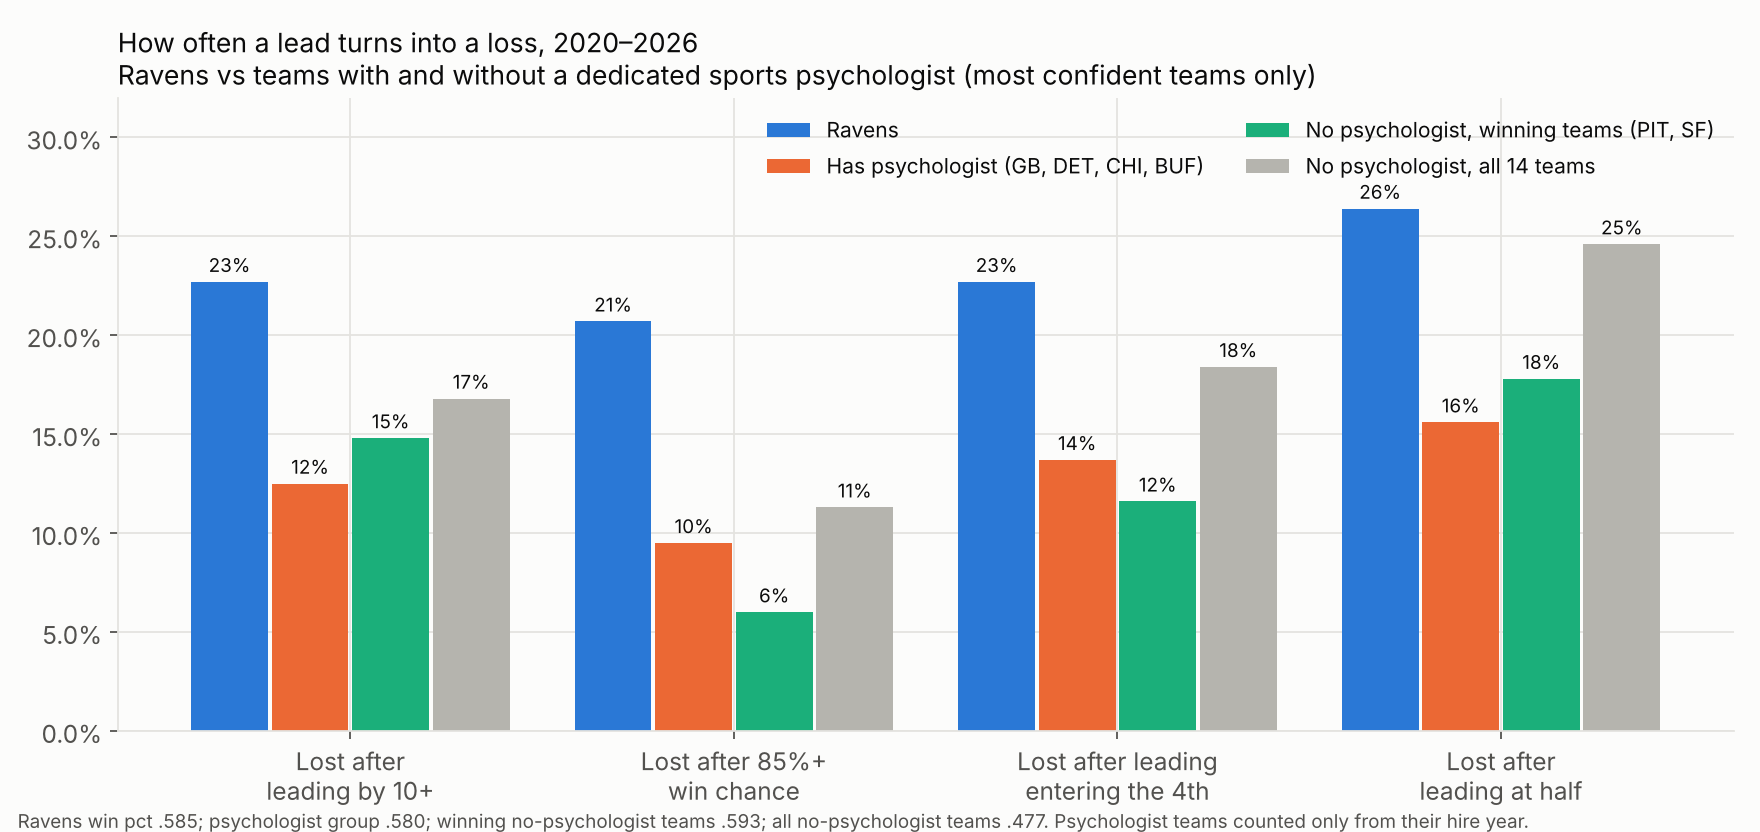
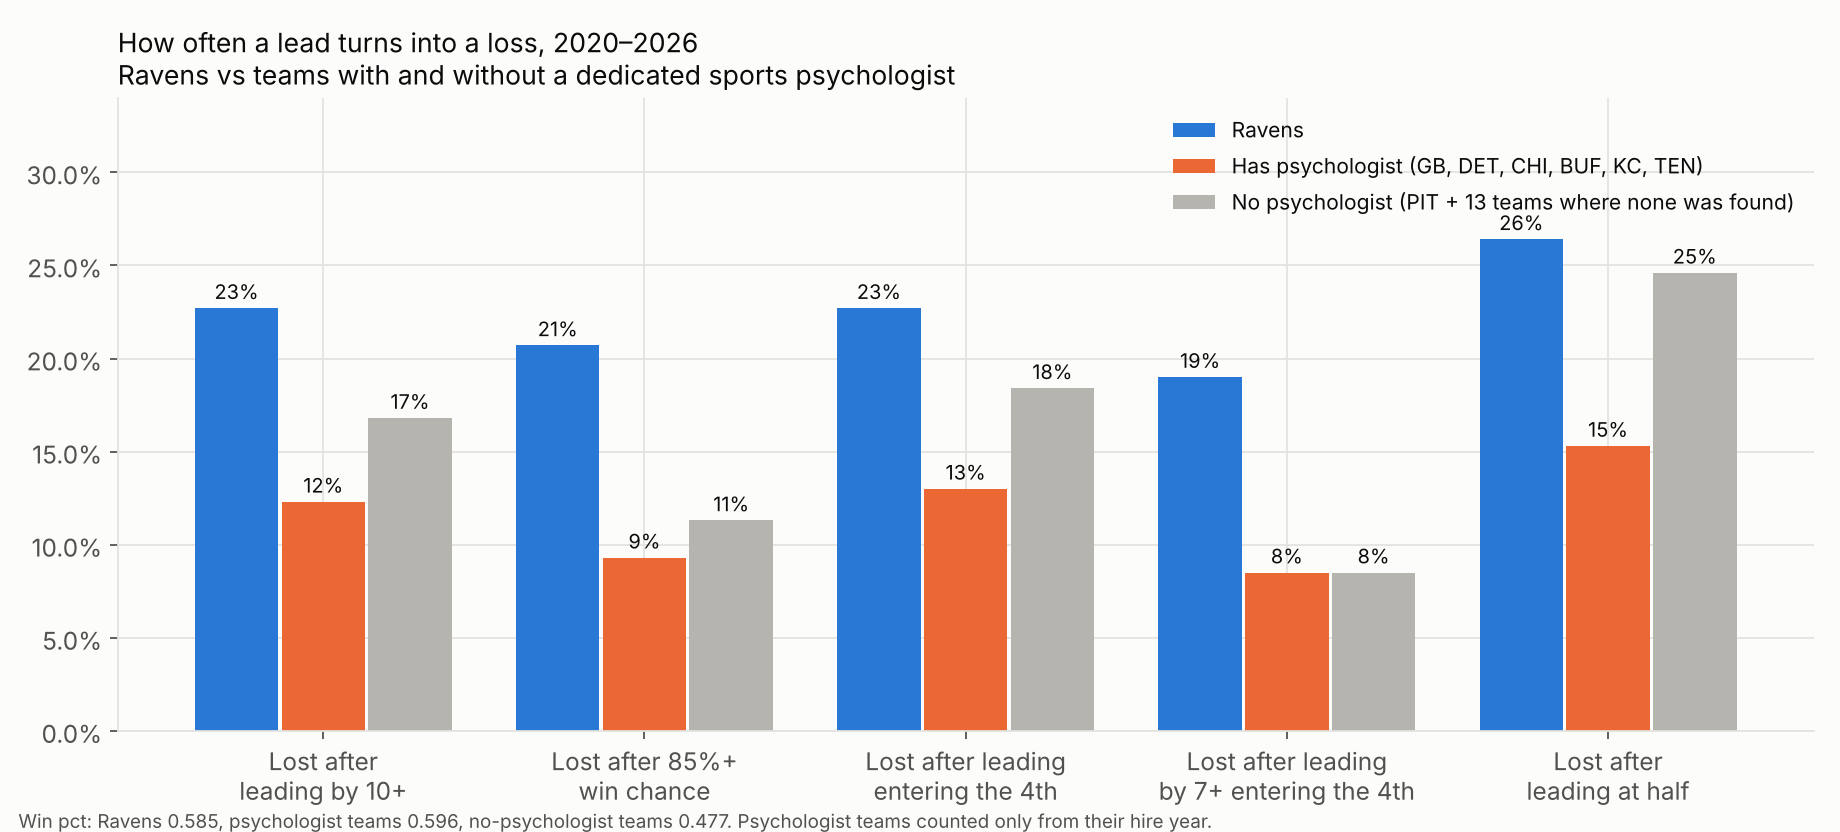
Ravens study: psychologist comparison with Chiefs and Titans added, two groups only
Claude-Session: https://claude.ai/code/session_01VaajPvovMVPsxphuCeQMVX

diff --git a/analysis/ravens-second-half/psych_compare.py b/analysis/ravens-second-half/psych_compare.py
@@ -5,13 +5,15 @@ Usage: python3 psych_compare.py DATA_DIR  (pbp_slim.parquet, game_flags.csv, tea
 
 Groups (team-seasons, 2020-2026), from sports_psychologists.md -- only the most confident entries:
   HAS: Packers 2020-26 (Chris Carr, full-time Apr 2020), Lions 2021-26 (Michelle Garvin, Jun 2021),
-       Bears 2022-26 (Mike Wiley Jr., Jul 2022), Bills 2023-26 (Desaree Festa, 2023 article).
+       Bears 2022-26 (Mike Wiley Jr., Jul 2022), Bills 2023-26 (Desaree Festa, 2023 article),
+       Chiefs 2022-26 (Shaun Tyrance, VP role covering performance psychology from May 2022; Tyler Bradstreet,
+       VP of Performance Psychology, likely 2026), Titans 2026 (Charron Sumler, hired before 2026; single source).
        Their seasons before the hire are dropped (not counted in either group).
   NO (confirmed): Steelers (2022 Post-Gazette column; assumed for all seasons).
   NO (none found): Bengals, Browns, Texans, Colts, Raiders, Chargers, Cowboys, Patriots, Jets, Saints, 49ers, Broncos,
        Dolphins -- searched, nobody named. Not proof of absence.
   BAL: Ravens (confirmed none, 2026 Banner).
-Left out as uncertain: Chiefs, Titans, Giants, Commanders, Rams, Bucs, Panthers, Falcons, Jaguars, Vikings, Cardinals,
+Left out as uncertain: Giants, Commanders, Rams, Bucs, Panthers, Falcons, Jaguars, Vikings, Cardinals,
 Seahawks, Eagles.
 """
 import sys, os
@@ -21,7 +23,7 @@ import pandas as pd
 d = sys.argv[1]
 out = os.path.dirname(os.path.abspath(__file__))
 pd.set_option('display.width', 250); pd.set_option('display.max_columns', 30)
-HAS = {'GB': 2020, 'DET': 2021, 'CHI': 2022, 'BUF': 2023}
+HAS = {'GB': 2020, 'DET': 2021, 'CHI': 2022, 'BUF': 2023, 'KC': 2022, 'TEN': 2026}
 NO_CONF = ['PIT']
 NO_FOUND = ['CIN', 'CLE', 'HOU', 'IND', 'LV', 'LAC', 'DAL', 'NE', 'NYJ', 'NO', 'SF', 'DEN', 'MIA']
 
@@ -72,8 +74,7 @@ def summ(x):
         'led_half_lost_game_rate': x.led_half_lost.sum() / x.led_half.sum(),
         'led_entering_q4': x.led_q4.sum(), 'blew_q4_lead_rate': x.blew_q4.sum() / x.led_q4.sum(),
         'led_by_7_entering_q4': x.led_q4_7.sum(), 'blew_q4_7plus_rate': x.blew_q4_7.sum() / x.led_q4_7.sum()})
-order = ['Ravens', 'Has psychologist', 'No psychologist: all (Steelers + none found)', 'No psychologist: Steelers (confirmed)',
-         'No psychologist: none found']
+order = ['Ravens', 'Has psychologist', 'No psychologist: all (Steelers + none found)']
 res = g.groupby('grp').apply(summ).T[order]
 lg = f[f.grp != 'Ravens']
 res['NFL (all other teams)'] = summ(f[f.team != 'BAL'])
@@ -93,12 +94,3 @@ for c in ['gap_2h_minus_1h_pg', 'q4_diff_pg', 'def_extra_2h_pts_pg', 'blew_10_ra
     asc = c in ['gap_2h_minus_1h_pg', 'q4_diff_pg']
     print(f'BAL rank of {len(allt)} on {c} (1 = worst):', int(allt[c].rank(ascending=asc, method="min")['BAL']))
 
-# Team quality check: better teams blow fewer leads, and the psychologist group wins more. Compare like with like:
-# "no psychologist" teams with a .550+ win pct over the span vs the psychologist group vs the Ravens.
-wp = f[f.grp.notna()].groupby('team').won.mean()
-good_no = [t for t in NO_CONF + NO_FOUND if wp[t] >= .55]
-print('\nNo-psychologist teams with .550+ win pct:', {t: round(wp[t], 3) for t in good_no})
-m = pd.DataFrame({'Ravens': summ(f[f.team == 'BAL']), 'Has psychologist': summ(f[f.grp == 'Has psychologist']),
-                  'No psychologist, winning teams': summ(f[f.team.isin(good_no)])})
-m.round(3).to_csv(f'{out}/psych_compare_matched.csv')
-print(m.round(3).to_string())

diff --git a/analysis/ravens-second-half/charts.py b/analysis/ravens-second-half/charts.py
@@ -133,25 +133,25 @@ print('deep charts written')
 
 # 7. Ravens vs teams with / without a dedicated sports psychologist
 pc = pd.read_csv(f'{out}/psych_compare.csv', index_col=0)
-pm = pd.read_csv(f'{out}/psych_compare_matched.csv', index_col=0)
-cols = {'Ravens': (pc['Ravens'], BLUE), 'Has psychologist\n(GB, DET, CHI, BUF)': (pc['Has psychologist'], ORANGE),
-        'No psychologist,\nwinning teams (PIT, SF)': (pm['No psychologist, winning teams'], '#1baf7a'),
-        'No psychologist,\nall 14 teams': (pc['No psychologist: all (Steelers + none found)'], GRAY)}
+cols = {'Ravens': (pc['Ravens'], BLUE), 'Has psychologist (GB, DET, CHI, BUF, KC, TEN)': (pc['Has psychologist'], ORANGE),
+        'No psychologist (PIT + 13 teams where none was found)': (pc['No psychologist: all (Steelers + none found)'], GRAY)}
 metrics = [('blew_10_rate', 'Lost after\nleading by 10+'), ('lost_after_85pct_rate', 'Lost after 85%+\nwin chance'),
-           ('blew_q4_lead_rate', 'Lost after leading\nentering the 4th'), ('led_half_lost_game_rate', 'Lost after\nleading at half')]
-fig, ax = plt.subplots(figsize=(11, 5.2))
-w = .2; x = np.arange(len(metrics))
+           ('blew_q4_lead_rate', 'Lost after leading\nentering the 4th'), ('blew_q4_7plus_rate', 'Lost after leading\nby 7+ entering the 4th'),
+           ('led_half_lost_game_rate', 'Lost after\nleading at half')]
+fig, ax = plt.subplots(figsize=(11.5, 5.2))
+w = .26; x = np.arange(len(metrics))
 for j, (lab, (ser, col)) in enumerate(cols.items()):
     vals = [ser[m] for m, _ in metrics]
-    xs = x + (j - 1.5) * (w + .01)
-    ax.bar(xs, vals, w, color=col, label=lab.replace('\n', ' '))
+    xs = x + (j - 1) * (w + .01)
+    ax.bar(xs, vals, w, color=col, label=lab)
     for xx, v in zip(xs, vals):
-        ax.text(xx, v + .005, f'{v:.0%}', ha='center', fontsize=8.5)
+        ax.text(xx, v + .005, f'{v:.0%}', ha='center', fontsize=9)
 ax.set_xticks(x, [l for _, l in metrics]); ax.yaxis.set_major_formatter(matplotlib.ticker.PercentFormatter(1))
-ax.set_ylim(0, .32); ax.legend(frameon=False, ncol=2, loc='upper right', fontsize=9.5)
-ax.set_title('How often a lead turns into a loss, 2020–2026\nRavens vs teams with and without a dedicated sports psychologist (most confident teams only)',
+ax.set_ylim(0, .34); ax.legend(frameon=False, loc='upper right', fontsize=9.5)
+ax.set_title('How often a lead turns into a loss, 2020–2026\nRavens vs teams with and without a dedicated sports psychologist',
              loc='left', fontsize=12)
-fig.text(.01, .005, 'Ravens win pct .585; psychologist group .580; winning no-psychologist teams .593; all no-psychologist teams .477. '
-         'Psychologist teams counted only from their hire year.', fontsize=8.5, color=INK2)
+fig.text(.01, .005, f"Win pct: Ravens {pc.loc['win_pct', 'Ravens']:.3f}, psychologist teams {pc.loc['win_pct', 'Has psychologist']:.3f}, "
+         f"no-psychologist teams {pc.loc['win_pct', 'No psychologist: all (Steelers + none found)']:.3f}. Psychologist teams counted only from their hire year.",
+         fontsize=8.5, color=INK2)
 save(fig, 'chart_psych_compare.png')
 print('psych chart written')

diff --git a/analysis/ravens-second-half/README.md b/analysis/ravens-second-half/README.md
@@ -387,41 +387,41 @@ PFF's position (ED = edge), so edge rushers listed as "LB" on draft day count as
   agency, so even good edge picks often weren't kept.
 
 ## 12. Teams with vs without a dedicated sports psychologist
-Files: `psych_compare.py` → `psych_compare.csv`, `psych_compare_teams.csv`, `psych_compare_matched.csv`;
-team list in `sports_psychologists.md`. 2020–2026, regular season + playoffs.
+Files: `psych_compare.py` → `psych_compare.csv`, `psych_compare_teams.csv`; team list in `sports_psychologists.md`.
+2020–2026, regular season + playoffs.
 
-Groups (most confident only):
-- **Has a psychologist:** Packers 2020–26 (Chris Carr), Lions 2021–26 (Michelle Garvin), Bears 2022–26 (Mike Wiley Jr.),
-  Bills 2023–26 (Desaree Festa). Seasons before each hire are left out.
-- **No psychologist:** Steelers (only confirmed "no") plus 13 teams where a search found nobody (Bengals, Browns,
-  Texans, Colts, Raiders, Chargers, Cowboys, Patriots, Jets, Saints, 49ers, Broncos, Dolphins). "None found" is not proof.
+Groups:
+- **Has a psychologist (6 teams):** Packers 2020–26 (Chris Carr), Lions 2021–26 (Michelle Garvin), Bears 2022–26
+  (Mike Wiley Jr.), Bills 2023–26 (Desaree Festa), Chiefs 2022–26 (Shaun Tyrance's VP role covering performance
+  psychology from 2022; Tyler Bradstreet, VP of Performance Psychology, likely 2026), Titans 2026 only (Charron
+  Sumler; single source, 9 games). Seasons before each hire are left out.
+- **No psychologist (14 teams):** Steelers (only confirmed "no") plus 13 teams where a search found nobody (Bengals,
+  Browns, Texans, Colts, Raiders, Chargers, Cowboys, Patriots, Jets, Saints, 49ers, Broncos, Dolphins). "None found" is not proof.
 - **Ravens:** confirmed none.
 
-| Per game / rate | Ravens | Has psychologist | No psych, winning teams (PIT, SF) | No psych, all 14 |
-|---|---|---|---|---|
-| Win % | .585 | .580 | .593 | .477 |
-| 1st-half point diff | +3.9 | +1.5 | +0.7 | −0.4 |
-| 2nd-half point diff | +0.7 | +1.5 | +1.2 | −0.4 |
-| 2nd half minus 1st half | **−3.2** | 0.0 | +0.5 | 0.0 |
-| 4th-quarter point diff | **−0.7** | +0.5 | +0.7 | 0.0 |
-| Extra points allowed in 2nd half | **+2.4** | −0.1 | −0.1 | −0.4 |
-| Lost after leading by 10+ | **23%** | 12% | 15% | 17% |
-| Lost after 85%+ win chance | **21%** | 10% | 6% | 11% |
-| Lost after leading entering the 4th | **23%** | 14% | 12% | 18% |
-| Lost after leading by 7+ entering the 4th | **19%** | 9% | 5% | 9% |
-| Lost after leading at half | **26%** | 16% | 18% | 25% |
+| Per game / rate | Ravens | Has psychologist | No psychologist |
+|---|---|---|---|
+| Win % | .585 | .596 | .477 |
+| 1st-half point diff | +3.9 | +1.6 | −0.4 |
+| 2nd-half point diff | +0.7 | +1.6 | −0.4 |
+| 2nd half minus 1st half | **−3.2** | 0.0 | 0.0 |
+| 4th-quarter point diff | **−0.7** | +0.6 | 0.0 |
+| Extra points allowed in 2nd half | **+2.4** | −0.4 | −0.4 |
+| Lost after leading by 10+ | **23%** | 12% | 17% |
+| Lost after 85%+ win chance | **21%** | 9% | 11% |
+| Lost after leading entering the 4th | **23%** | 13% | 18% |
+| Lost after leading by 7+ entering the 4th | **19%** | 9% | 9% |
+| Lost after leading at half | **26%** | 15% | 25% |
 
-- **The Ravens are worse than both groups on every blown-lead measure**, even though they win as often as the
-  psychologist teams. Among these 19 teams they are last in 2nd-half fade and extra 2nd-half points allowed, and 2nd
-  worst in losses after an 85% win chance.
-- **The psychologist teams look better than the no-psychologist group overall, but that's mostly team quality.**
-  They win 58% vs 48%, and better teams blow fewer leads. Against no-psychologist teams that win just as often
-  (Steelers, 49ers), the psychologist teams are about the same: better on some measures, worse on others.
-- **Inside the psychologist group it varies a lot.** The Bills and Lions rarely blow leads (about 5–10%). The Bears
-  blow them about as often as the Ravens (22% after leading by 10+, 19% after an 85% win chance).
-- **Bottom line:** with this little data (4 teams vs 2 comparable teams), there's no clear sign that having a
-  dedicated psychologist prevents blown leads. What the data does show is that the Ravens are an outlier against
-  both groups. Hiring one could still be worth trying, but these numbers can't promise it would fix the problem.
+- **The Ravens are worse than both groups on every measure.** Among these 21 teams they rank last in 2nd-half
+  fade and extra 2nd-half points allowed, 3rd worst in losses after an 85% win chance, and 5th worst after leading by 10+.
+- **The psychologist teams blow fewer leads than the no-psychologist teams on most measures.** But they also win far
+  more (60% vs 48%), and better teams naturally blow fewer leads, so this can't be credited to the psychologist.
+  On the cleanest late-game measure, losing a 7+ point lead in the 4th quarter, the two groups are identical (9%).
+- **Inside the psychologist group it varies a lot.** Bills, Chiefs and Lions rarely blow leads (about 5–10%); the
+  Bears blow them about as often as the Ravens (22% after leading by 10+). The Titans have only 9 games.
+- **Bottom line:** the data shows no clear effect of having a dedicated psychologist, but it confirms the Ravens are
+  an outlier against both groups. A hire could still be worth trying; these numbers just can't promise it would help.
 
 ![psych](chart_psych_compare.png)
 
@@ -462,7 +462,7 @@ Groups (most confident only):
 - `coaching_tree.py` → `coaching_tree.csv`, `team_season_defense.csv`
 - `game_situation.py` → `situation_offense.csv`, `situation_handoff.csv`
 - `penalties.py` → `penalties_q4.csv`
-- `psych_compare.py` → `psych_compare.csv`, `psych_compare_teams.csv`, `psych_compare_matched.csv`
+- `psych_compare.py` → `psych_compare.csv`, `psych_compare_teams.csv`
 - `draft.py` → `draft_value.csv`, `draft_ravens_edge.csv`, `draft_ravens_cb.csv` (needs nflverse `draft_picks.csv` and `players.csv` in DATA)
 - `charts.py` → `chart_*.png`
 
